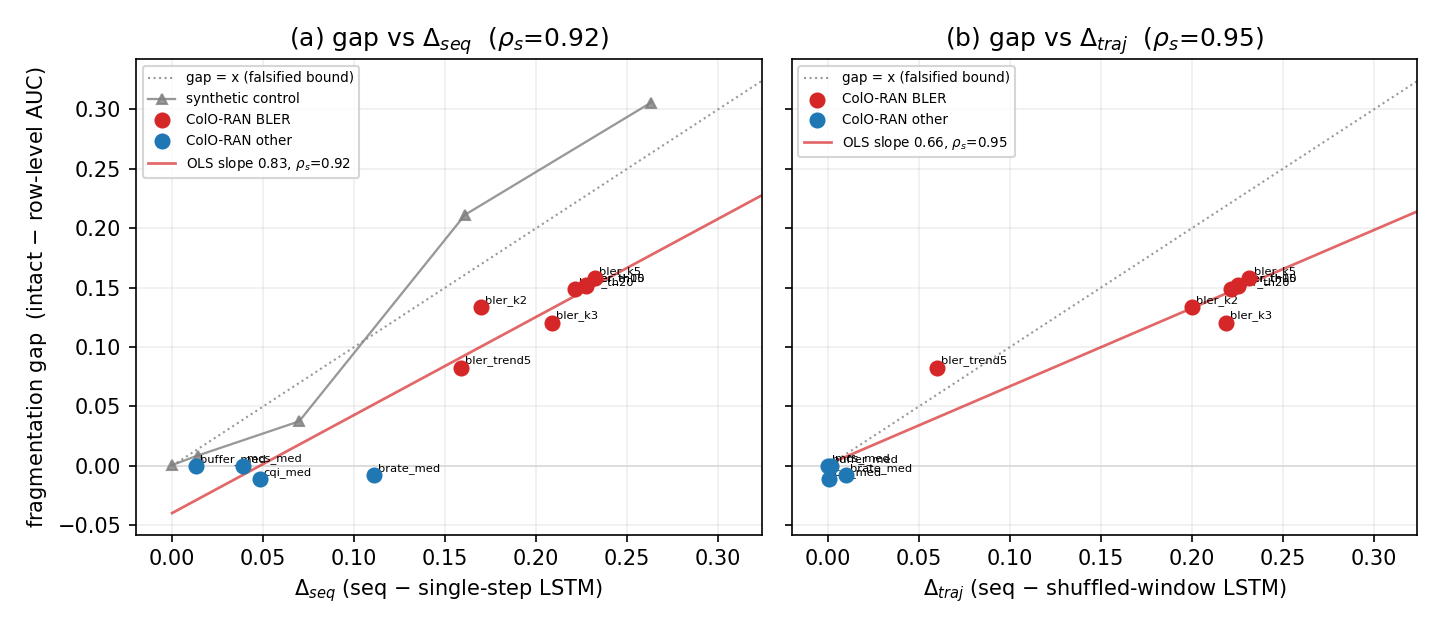
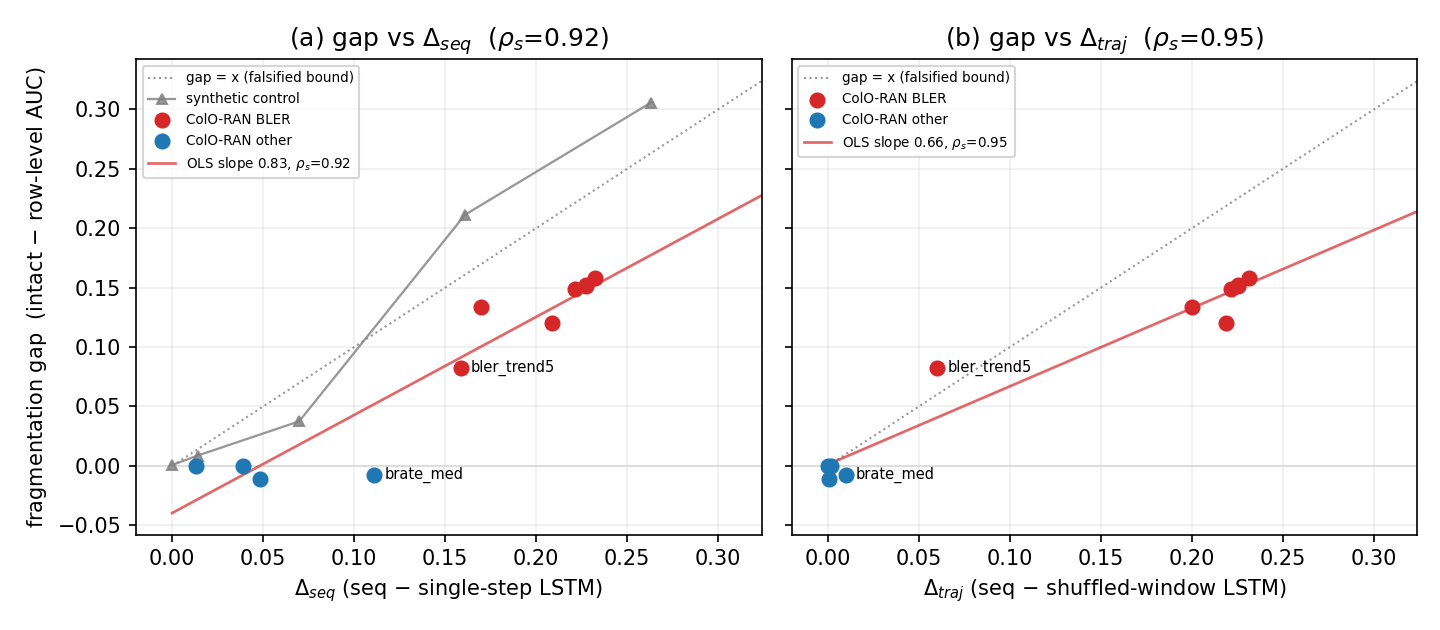
paper(seq-integrity): fix figure label overlap (visual review)
Visual inspection found the dense clusters' per-point labels overprinted into an unreadable blob
(bler_th05/th10/th20/k5 at top-right; buffer/mcs/cqi/brate at the origin). Fix: label only the two
story points -- brate_med (the Delta_seq deviator that Delta_traj pulls onto the origin) and
bler_trend5 (the low-BLER transition) -- and leave the color-coded clusters (red BLER, blue other)
unlabeled. The figure now cleanly shows brate_med off-trend in (a) and on the origin in (b), the
Delta_traj refinement. PDF rebuilt (4pp, 0 undefined).

diff --git a/scripts/prea1/make_law_figure.py b/scripts/prea1/make_law_figure.py
@@ -54,8 +54,12 @@ def panel(ax, x, gp, names, sy, xkey, xlabel):
     xs = np.linspace(0, lim, 50)
     ax.plot(xs, sl * xs + ic, c="tab:red", lw=1.3, alpha=0.7,
             label=f"OLS slope {sl:.2f}, $\\rho_s$={sp:.2f}")
+    # label only the two story points (the deviator + the low-BLER transition); dense clusters
+    # are color-coded (red BLER high, blue other low) and left unlabeled to avoid an unreadable blob
+    label = {"brate_med", "bler_trend5"}
     for n, xv, gv in zip(names, x, gp):
-        ax.annotate(n, (xv, gv), fontsize=5.5, xytext=(2, 2), textcoords="offset points")
+        if n in label:
+            ax.annotate(n, (xv, gv), fontsize=7, xytext=(5, -2), textcoords="offset points")
     ax.set_xlabel(xlabel); ax.set_xlim(-0.02, lim); ax.grid(alpha=0.2)
     return sl, (lo, hi), sp
 